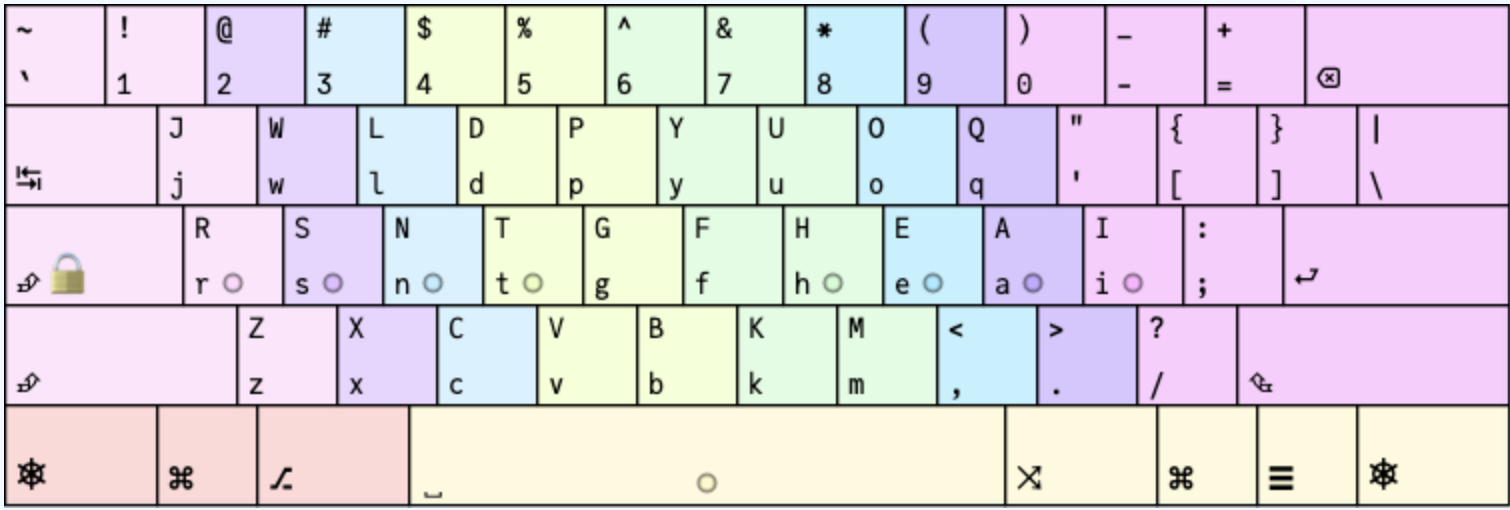
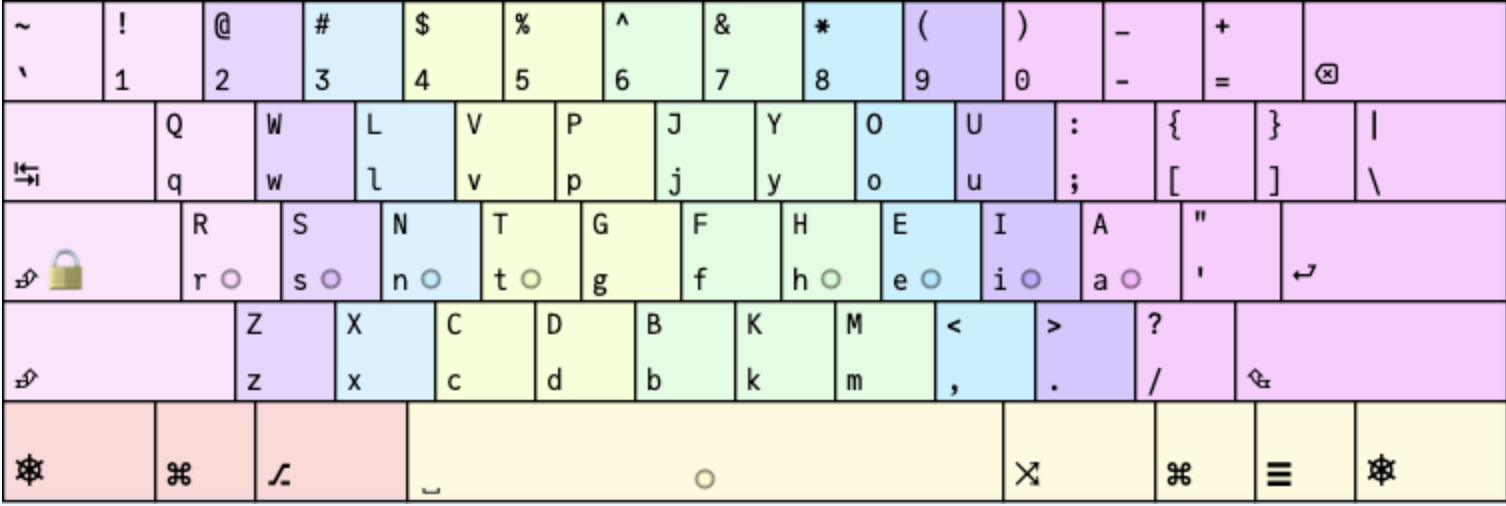
updated Athena

Changed region(s): [[0.0, 0.0, 1.0, 1.0]]

diff --git a/README.md b/README.md
@@ -15,8 +15,8 @@ Tongue-in-cheek nicknamed "theorem" because of how nicely that rolls on this mos
 
 ![](https://github.com/ijzerbroot/handsonui/blob/main/athena.png)
 
-Swapped I and O from Handson UI v2. Since there is so little in common with the original Hands On I'll just call this "Athena" which can be typed very comfortably on the home row.
-It may be better to swap D and G and/or A and I for some depending on personal preference.
+My personal favourite.
+Since there is so little in common with the original Hands On I'll just call this "Athena" which can be typed very comfortably on the home row.
 
 
 [Any code is offered under a Creative Commons Attribution-ShareAlike 3.0 United States (CC BY-SA 3.0 US) license](https://creativecommons.org/licenses/by-sa/3.0/us/).
